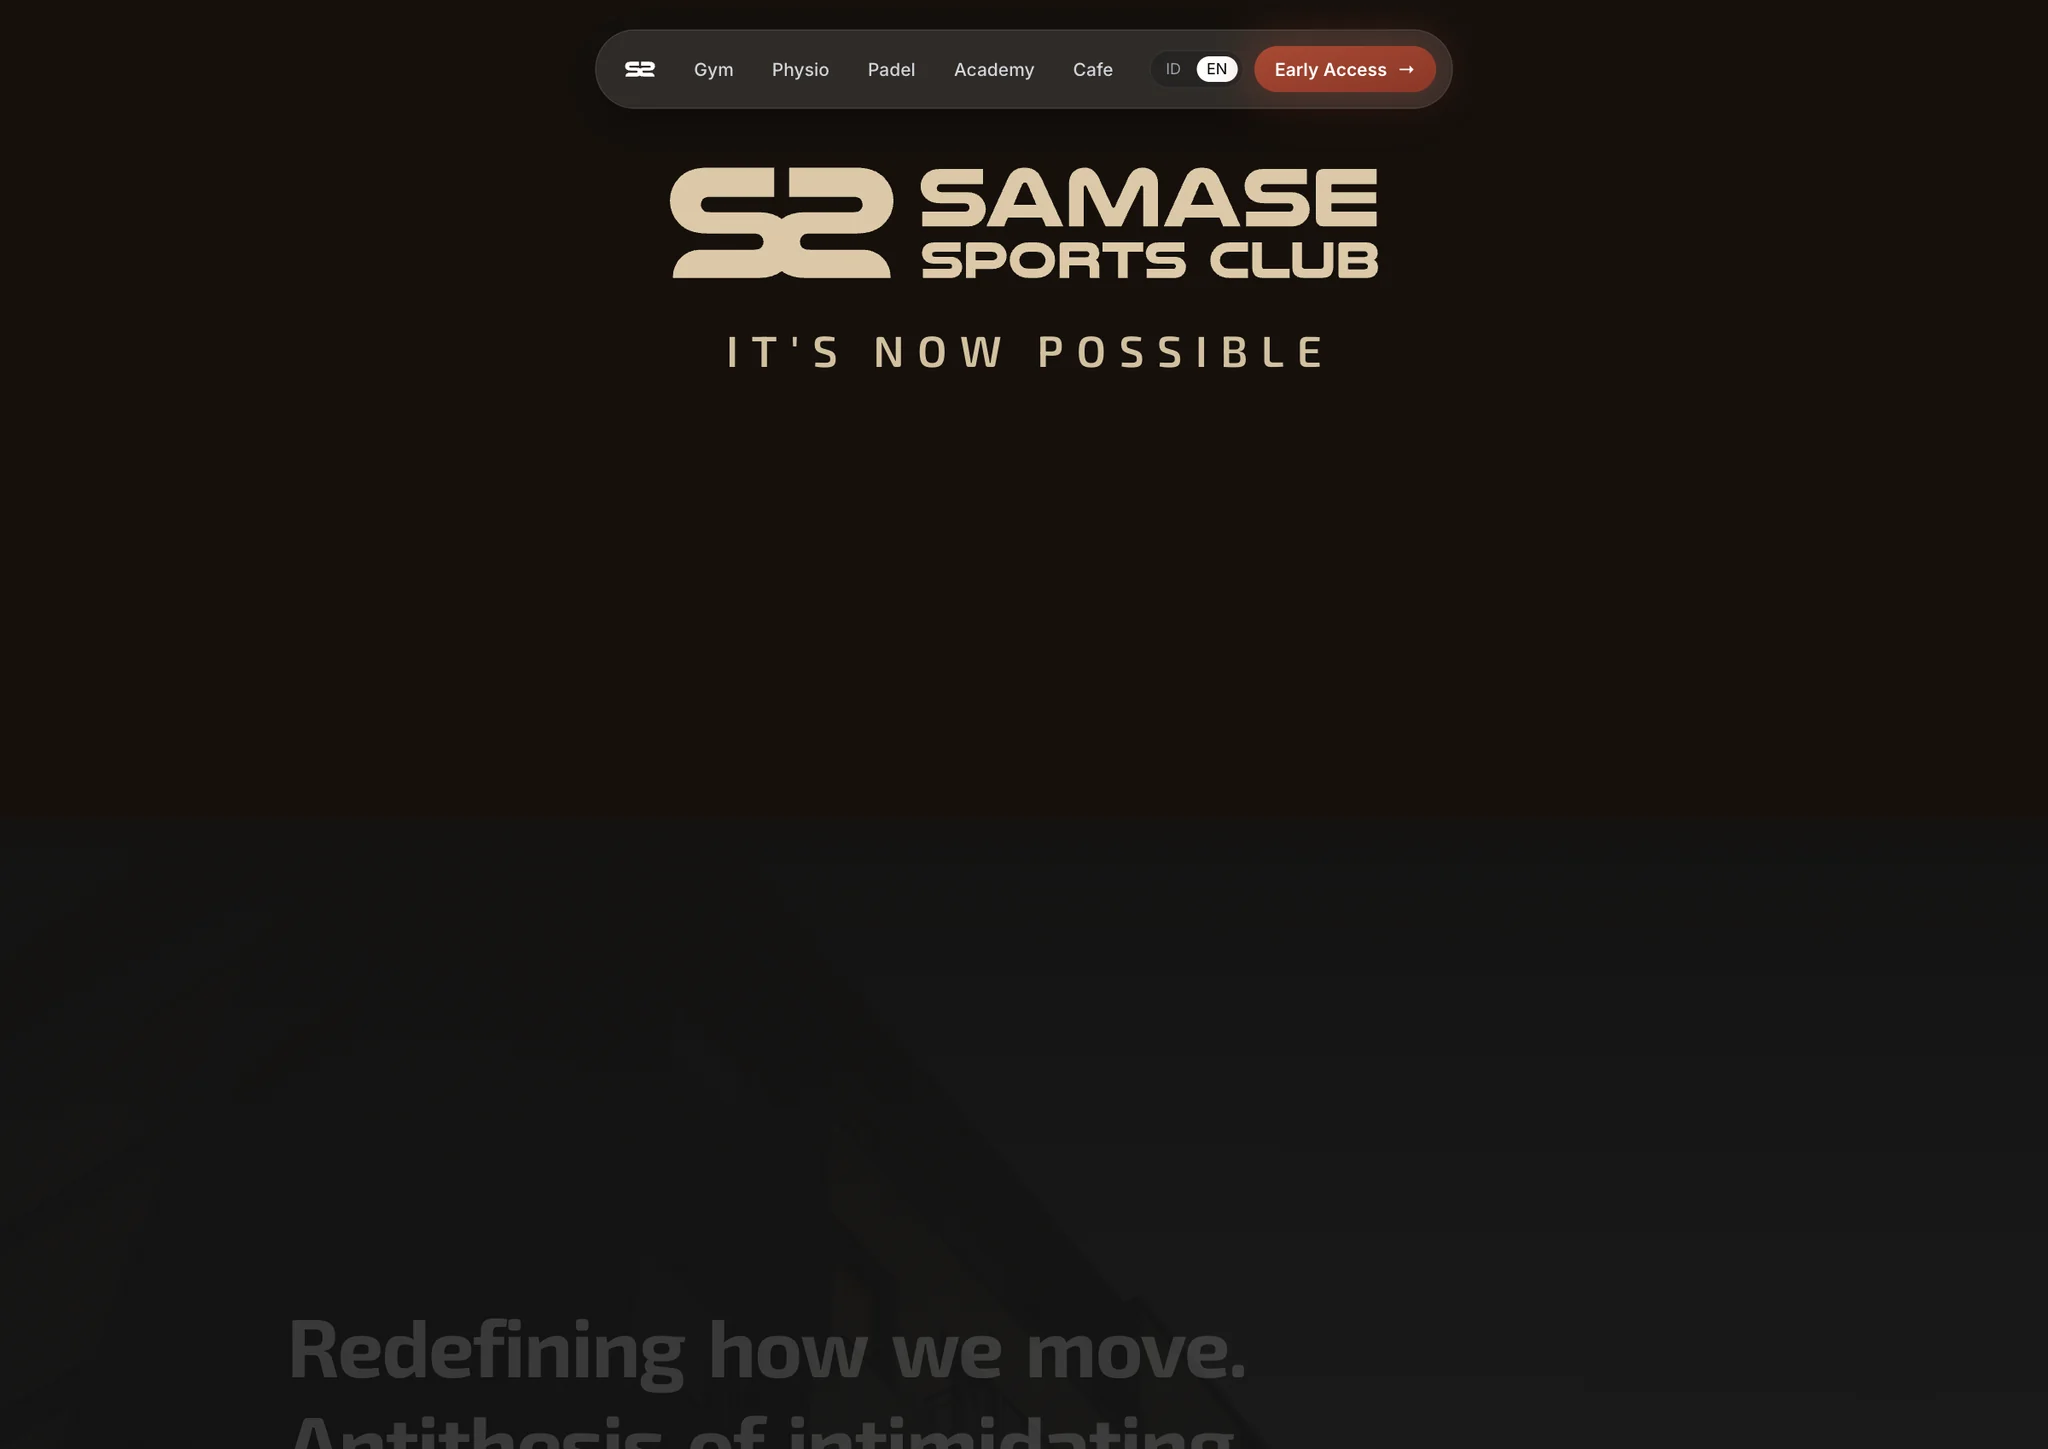
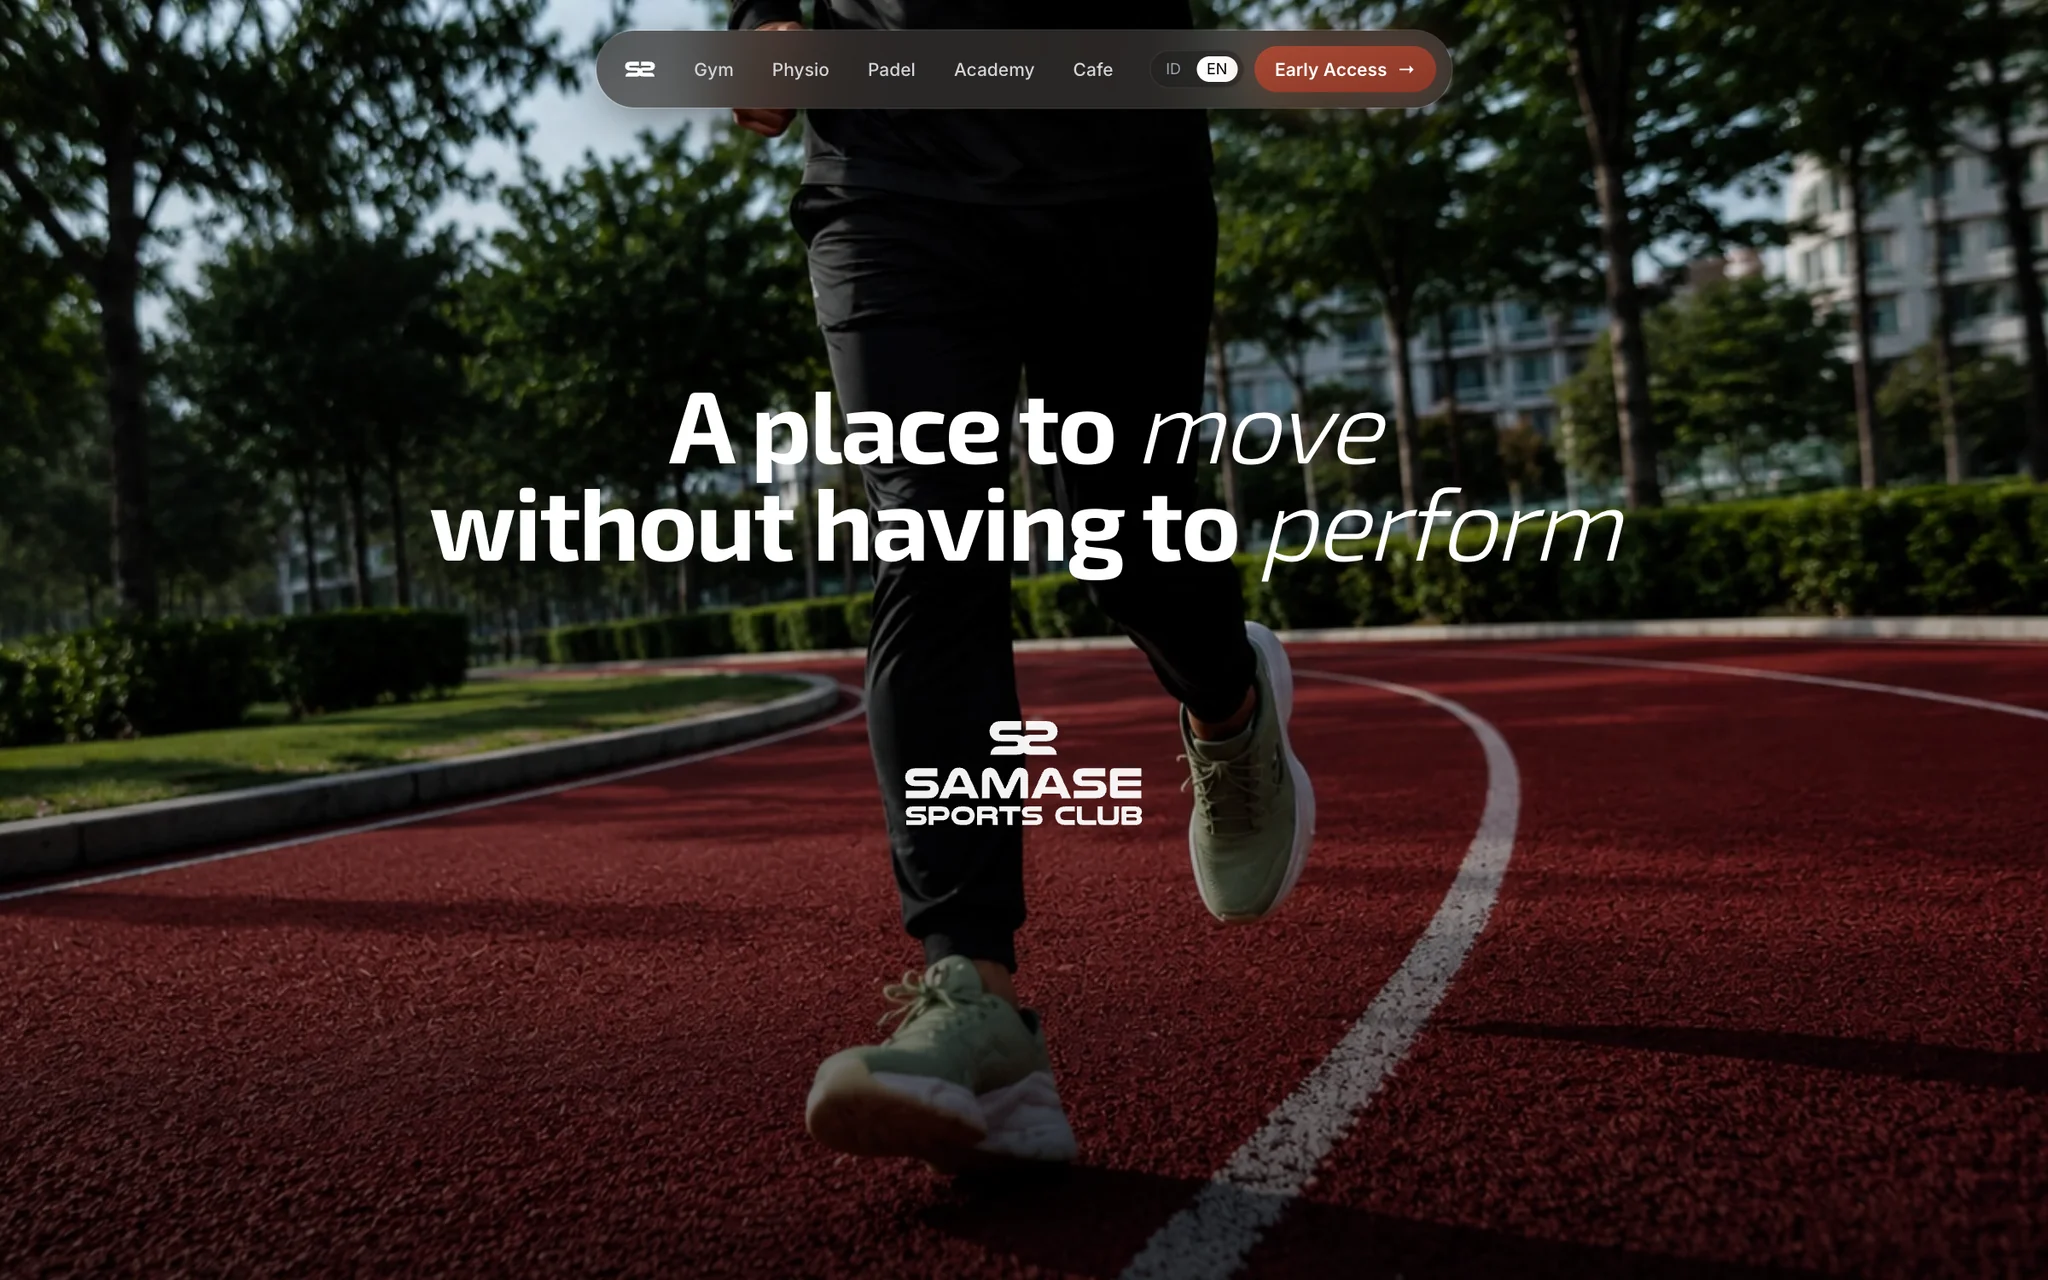
fix: plate 01 shows the hero, not a scrolled view
The first capture ran into the host's browser check, so the screenshot that
made it into the case study was taken 1400px down the page. Plate 01 and the
cover are re-taken from the top, after waiting the interstitial out.

diff --git a/src/content/case-studies.ts b/src/content/case-studies.ts
@@ -1127,9 +1127,12 @@ export const caseStudies: CaseStudy[] = [
     gallery: [
       {
         src: "/work/gallery/samase-landing.webp",
-        caption: { id: "Landing page SAMASE Sports Club", en: "The SAMASE Sports Club landing page" },
+        caption: {
+          id: "Hero landing page SAMASE Sports Club",
+          en: "The SAMASE Sports Club landing page, at the top",
+        },
         width: 2048,
-        height: 1536,
+        height: 1280,
       },
       {
         src: "/work/gallery/samase-kasir.webp",
